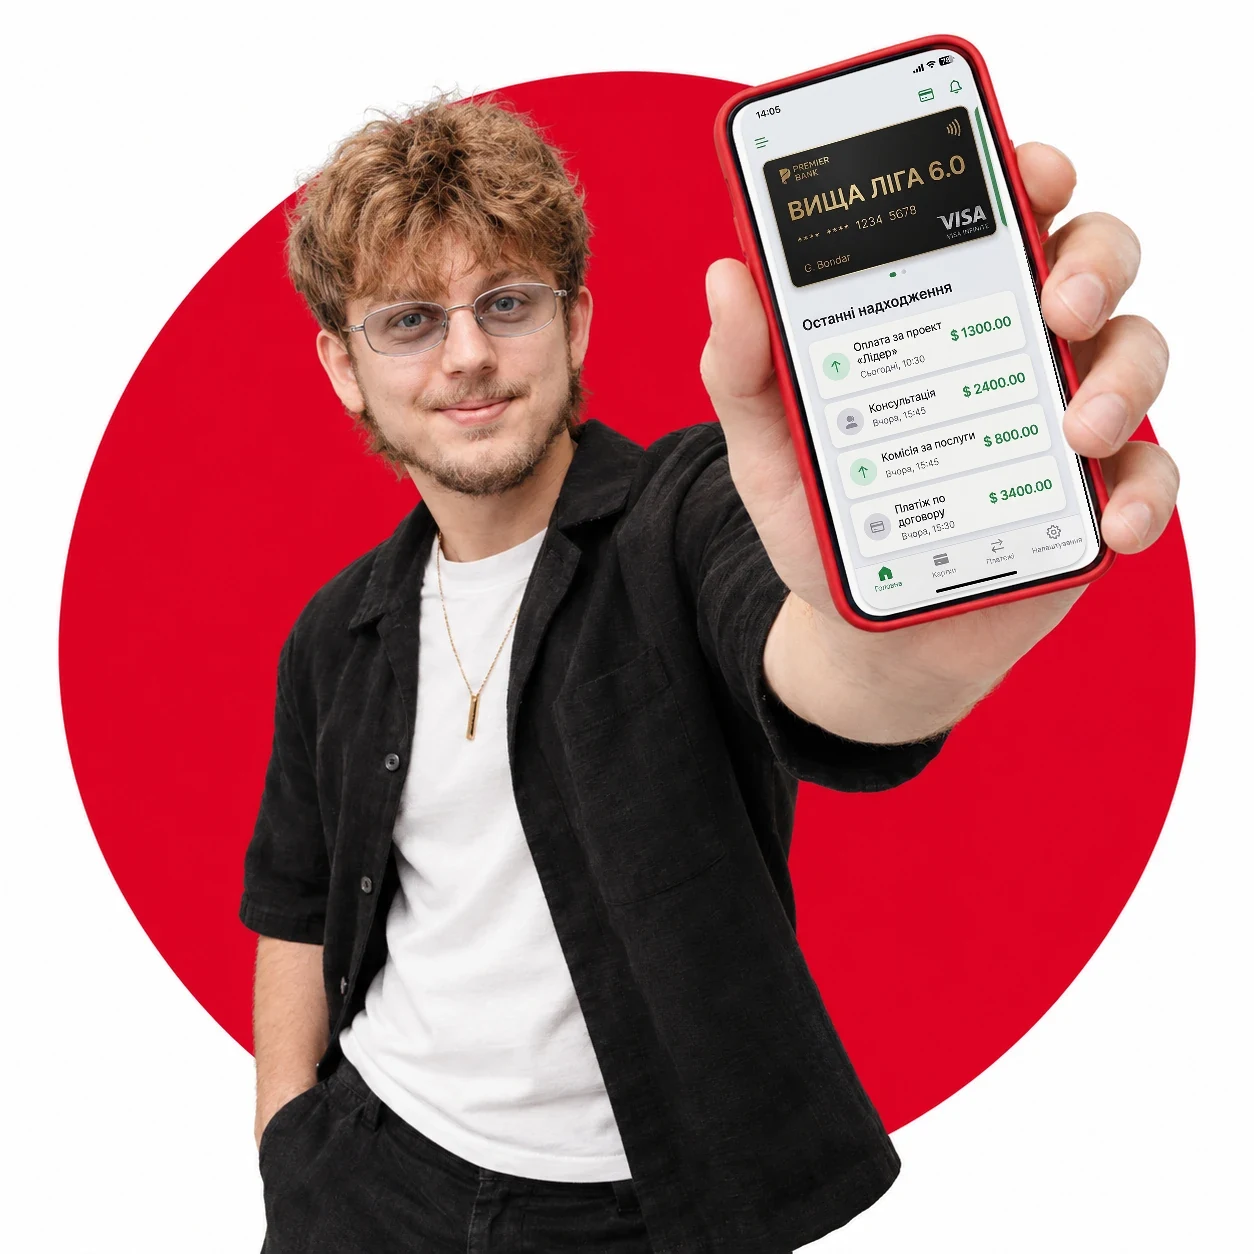
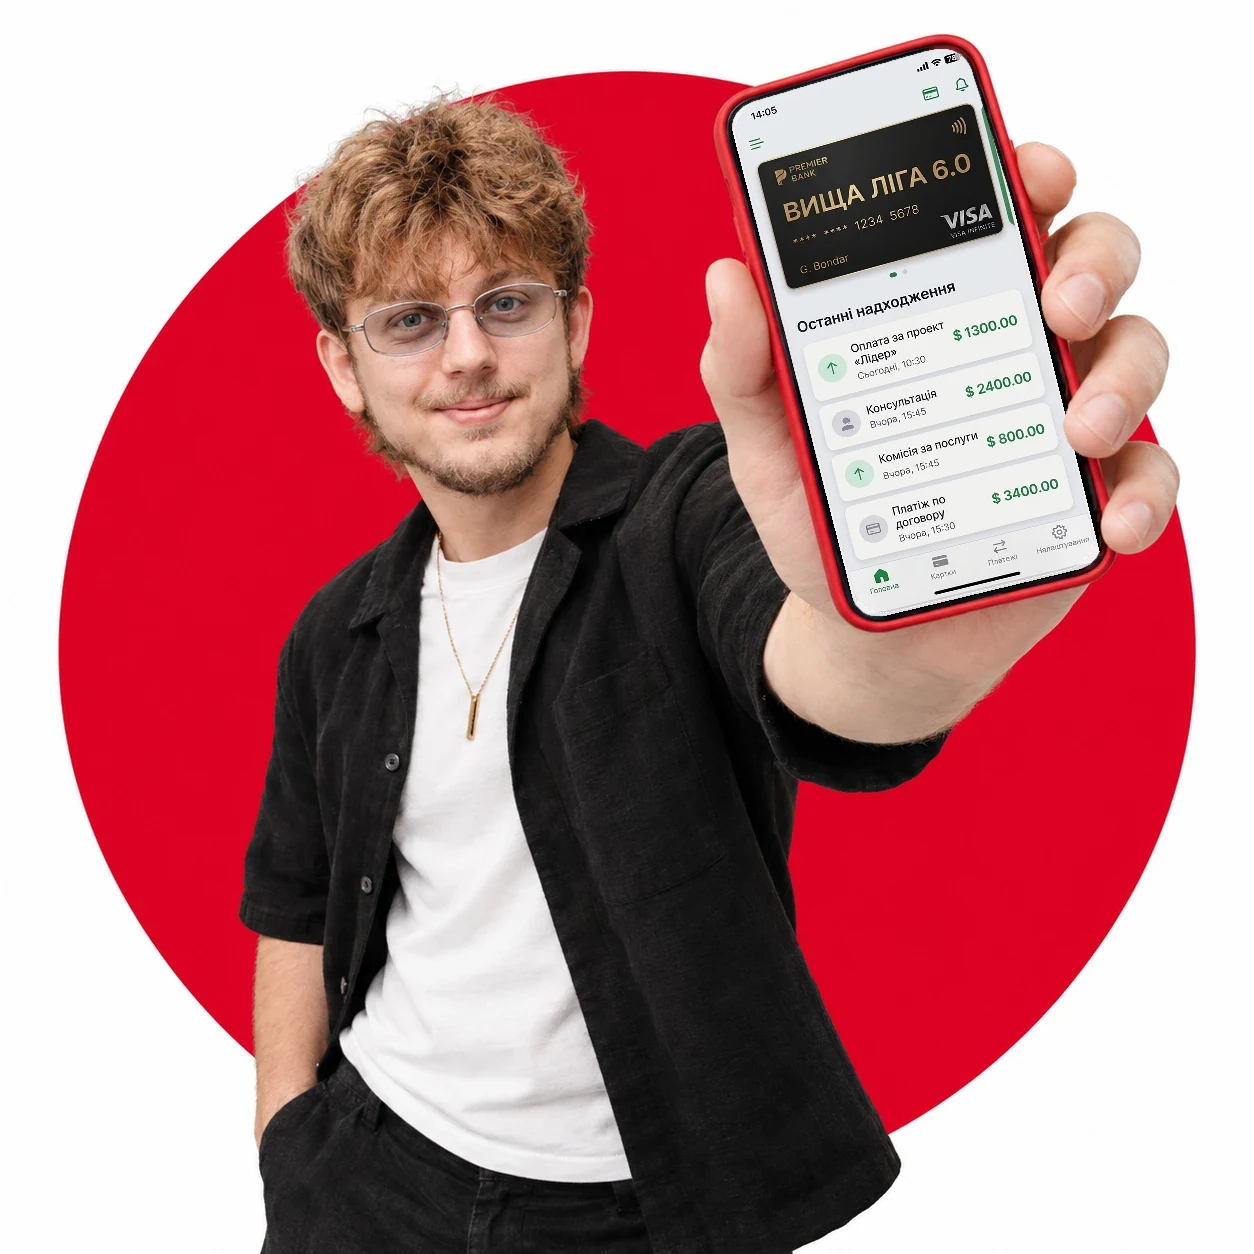
Скрін у телефоні: обрізаємо поля самого скріна, а не тільки кадр
Світла зубчаста смуга вздовж краю екрана була не з фото, а з самого скріна:
він приходив з білими полями по краях і чорною обводкою з заокругленими
кутами, а обрізалось тільки біле. Тепер беремо справжній вміст (не майже біле
і не майже чорне), обрізаємо по ньому і розтягуємо крайній піксель до краю в
кожному рядку й стовпці — екран лягає впритул до рамки, без облямівки.

Скрін приходить уже обрізаний по екрану, тому пропорції під екран телефона
більше не підганяємо: різниця менша за відсоток.

Changed region(s): [[0.5909, 0.0311, 0.8708, 0.4976], [0.5909, 0.0622, 0.622, 0.0933]]

diff --git a/assets-src/consult-phone-screen.py b/assets-src/consult-phone-screen.py
@@ -20,44 +20,35 @@ MOCK = os.path.join(ROOT, "assets-src", "consult-phone-screen.png")
 OUT = os.path.join(ROOT, "public", "assets", "img", "consult-hero.webp")
 
 
-def prepare_mock(path, aspect):
-    """Скрін застосунку → прямокутник під пропорції екрана телефона.
+def prepare_mock(path):
+    """Скрін застосунку → чистий прямокутник самого екрана.
 
-    Макет лежить на білому тлі й має заокруглені кути. Спершу обрізаємо його по
-    самому екрану, потім у кожному рядку розтягуємо крайній піксель до країв —
-    так зникають білі кутики. Наприкінці добиваємо ширину до потрібних пропорцій
-    тим самим розтягуванням країв, щоб нічого не стискати й не різати.
+    Скрін може приходити з білими полями по краях і чорною обводкою з
+    заокругленими кутами. Беремо тільки справжній вміст (не майже біле і не
+    майже чорне), обрізаємо по ньому, а потім у кожному рядку й стовпці
+    розтягуємо крайній піксель вмісту до краю — так зникають і поля, і кутики.
+    Пропорції не підганяємо: скрін дозволено трохи розтягнути під екран.
     """
-    im = Image.open(path).convert("RGB")
-    a = np.asarray(im).astype(np.int16)
-    panel = a.sum(2) < 750
-    ys, xs = np.nonzero(panel)
-    x0, x1, y0, y1 = xs.min(), xs.max(), ys.min(), ys.max()
+    a = np.asarray(Image.open(path).convert("RGB")).astype(np.int16)
+    s = a.sum(2)
+    content = (s > 60) & (s < 735)
+    ys, xs = np.nonzero(content)
+    y0, y1, x0, x1 = ys.min(), ys.max(), xs.min(), xs.max()
     crop = a[y0:y1 + 1, x0:x1 + 1].copy()
-    rows = panel[y0:y1 + 1, x0:x1 + 1]
-    for i, row in enumerate(rows):
-        seg = np.nonzero(row)[0]
+    keep = content[y0:y1 + 1, x0:x1 + 1]
+    for i in range(crop.shape[0]):                  # поля зліва й справа
+        seg = np.nonzero(keep[i])[0]
         if not len(seg):
             continue
         crop[i, :seg[0]] = crop[i, seg[0]]
         crop[i, seg[-1] + 1:] = crop[i, seg[-1]]
-    h, w = crop.shape[:2]
-    need = int(round(h * aspect))
-    if need > w:
-        pad = (need - w) // 2
-        crop = np.concatenate([
-            np.repeat(crop[:, :1], pad, axis=1),
-            crop,
-            np.repeat(crop[:, -1:], need - w - pad, axis=1),
-        ], axis=1)
-    elif need < w:                      # екран телефона вужчий — доточуємо зверху й знизу
-        need_h = int(round(w / aspect))
-        pad = (need_h - h) // 2
-        crop = np.concatenate([
-            np.repeat(crop[:1], pad, axis=0),
-            crop,
-            np.repeat(crop[-1:], need_h - h - pad, axis=0),
-        ], axis=0)
+        keep[i] = True
+    for j in range(crop.shape[1]):                  # рядки, де вмісту не було зовсім
+        seg = np.nonzero(keep[:, j])[0]
+        if not len(seg):
+            continue
+        crop[:seg[0], j] = crop[seg[0], j]
+        crop[seg[-1] + 1:, j] = crop[seg[-1], j]
     return Image.fromarray(crop.astype(np.uint8), "RGB")
 
 
@@ -129,7 +120,7 @@ print("кути екрана:", [tuple(c.round().astype(int)) for c in quad])
 
 side = lambda p, q: float(np.hypot(*(p - q)))
 aspect = ((side(tl, tr) + side(bl, br)) / 2) / ((side(tl, bl) + side(tr, br)) / 2)
-mock = prepare_mock(MOCK, aspect)
+mock = prepare_mock(MOCK)
 mw, mh = mock.size
 print("пропорції екрана:", round(aspect, 4), "макет:", mock.size)
 
@@ -148,8 +139,8 @@ warped = mock.transform(hero.size, Image.PERSPECTIVE, coeffs, Image.BICUBIC)
 white = (r > 228) & (g > 228) & (b > 228)
 # заливка могла б просочитись крізь світлу щілину в рамці — тримаємо її в межах граней
 yy, xx = np.mgrid[0:H, 0:W]
-white &= (xx > mL * yy + cL - 2) & (xx < mR * yy + cR + 2)
-white &= (yy > mT * xx + cT - 2) & (yy < mB * xx + cB + 2)
+white &= (xx > mL * yy + cL - 8) & (xx < mR * yy + cR + 8)
+white &= (yy > mT * xx + cT - 8) & (yy < mB * xx + cB + 8)
 screen = np.zeros_like(white)             # біле поле екрана, залите з середини
 seed = deque([(500, 950)])                # точка всередині екрана
 screen[500, 950] = True
@@ -183,7 +174,12 @@ while stack:
 screen |= box & ~out_fill                 # дірки всередині екрана — теж екран
 
 m = Image.fromarray((screen * 255).astype(np.uint8), "L")
-m = m.filter(ImageFilter.GaussianBlur(0.5))   # не розширюємо: рамка тут тонка
+# По краю екрана йде смуга напівтонів, яка в білу заливку не потрапила: якщо її
+# не закрити, стара світла облямівка світиться зубцями поверх нового скріна.
+# Тому маску розширюємо на піксель і згладжуємо сходинки розмиттям з порогом.
+m = m.filter(ImageFilter.MaxFilter(3))
+m = m.filter(ImageFilter.GaussianBlur(1.2)).point(lambda v: 255 if v > 110 else 0)
+m = m.filter(ImageFilter.GaussianBlur(0.6))
 
 out = hero.copy()
 out.paste(warped, (0, 0), m)
